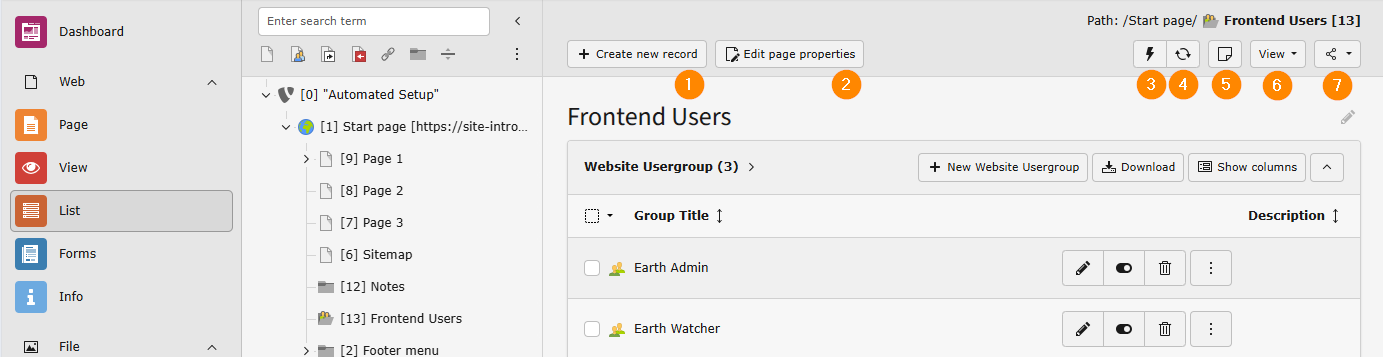
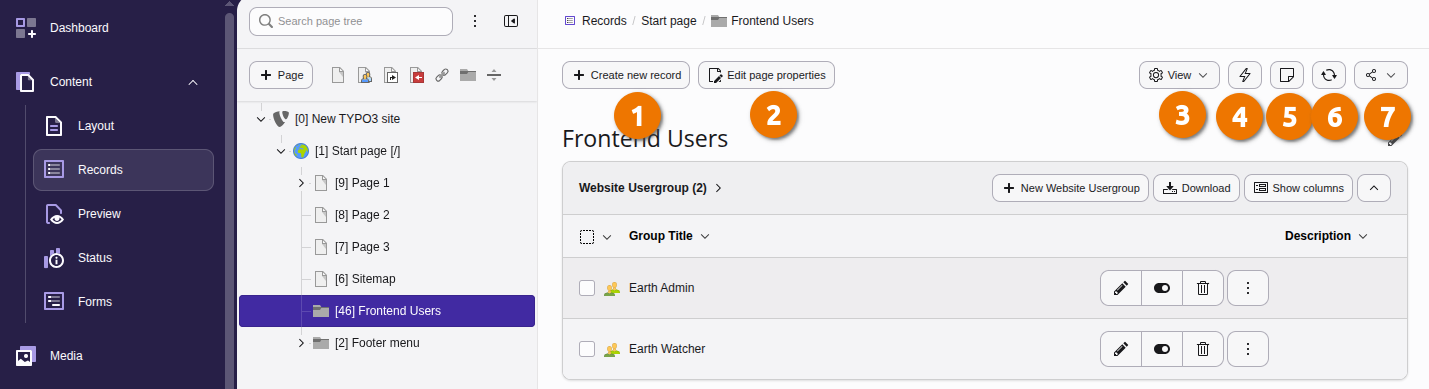
[TASK] Replace screenshots Content Elements/Using the Content Record module (#273)
Releases: main

diff --git a/Documentation/RecordModule/UsingEffectively/Index.rst b/Documentation/RecordModule/UsingEffectively/Index.rst
@@ -38,13 +38,13 @@ The list view has action icons in the **module header** including:
 
 #.  **Edit page properties** of the current page
 
-#.  **Clear the cache** of the current page
+#.  **View** or hide search or `the clipboard <https://docs.typo3.org/permalink/t3editors:clipboard>`_
 
-#.  **Refresh** the :guilabel:`Content > Record` module
+#.  **Clear the cache** of the current page
 
 #.  **Create internal note**
 
-#.  **View** Show or hide search or `The clipboard <https://docs.typo3.org/permalink/t3editors:clipboard>`_
+#.  **Refresh** the :guilabel:`Content > Record` module
 
 #.  **Share** Copy an URL to this page or bookmark it for quick access
 
